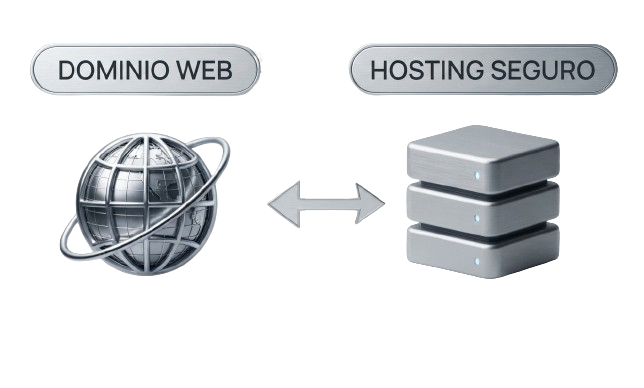
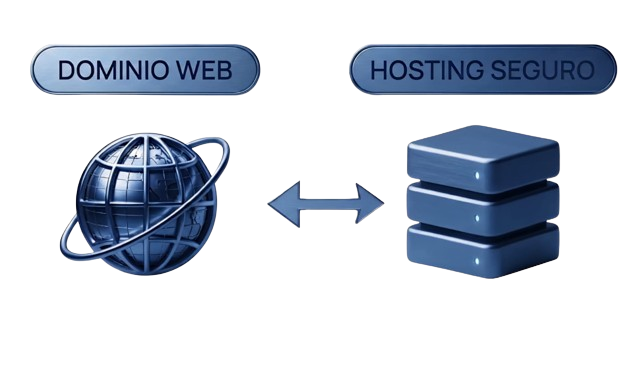
res

diff --git a/src/routes/+page.svelte b/src/routes/+page.svelte
@@ -118,9 +118,6 @@
           <a href="https://wa.me/584149430559?text=Hola,%20quiero%20más%20información%20sobre%20el%20dominio%20y%20hosting." target="_blank" rel="noopener noreferrer" class="bg-[#0071e3] hover:bg-[#0077ed] text-white text-sm font-medium px-4 py-1.5 rounded-full transition-all">
             Más información
           </a>
-          <a href="https://wa.me/584149430559?text=Hola,%20quiero%20comprar%20el%20paquete%20con%20dominio%20y%20hosting." target="_blank" rel="noopener noreferrer" class="text-[#0066cc] hover:underline text-sm font-medium flex items-center">
-            Comprar &gt;
-          </a>
         </div>
       </div>
       <div class="w-full max-w-[500px] mt-4 transform hover:scale-[1.02] transition-transform duration-500">
